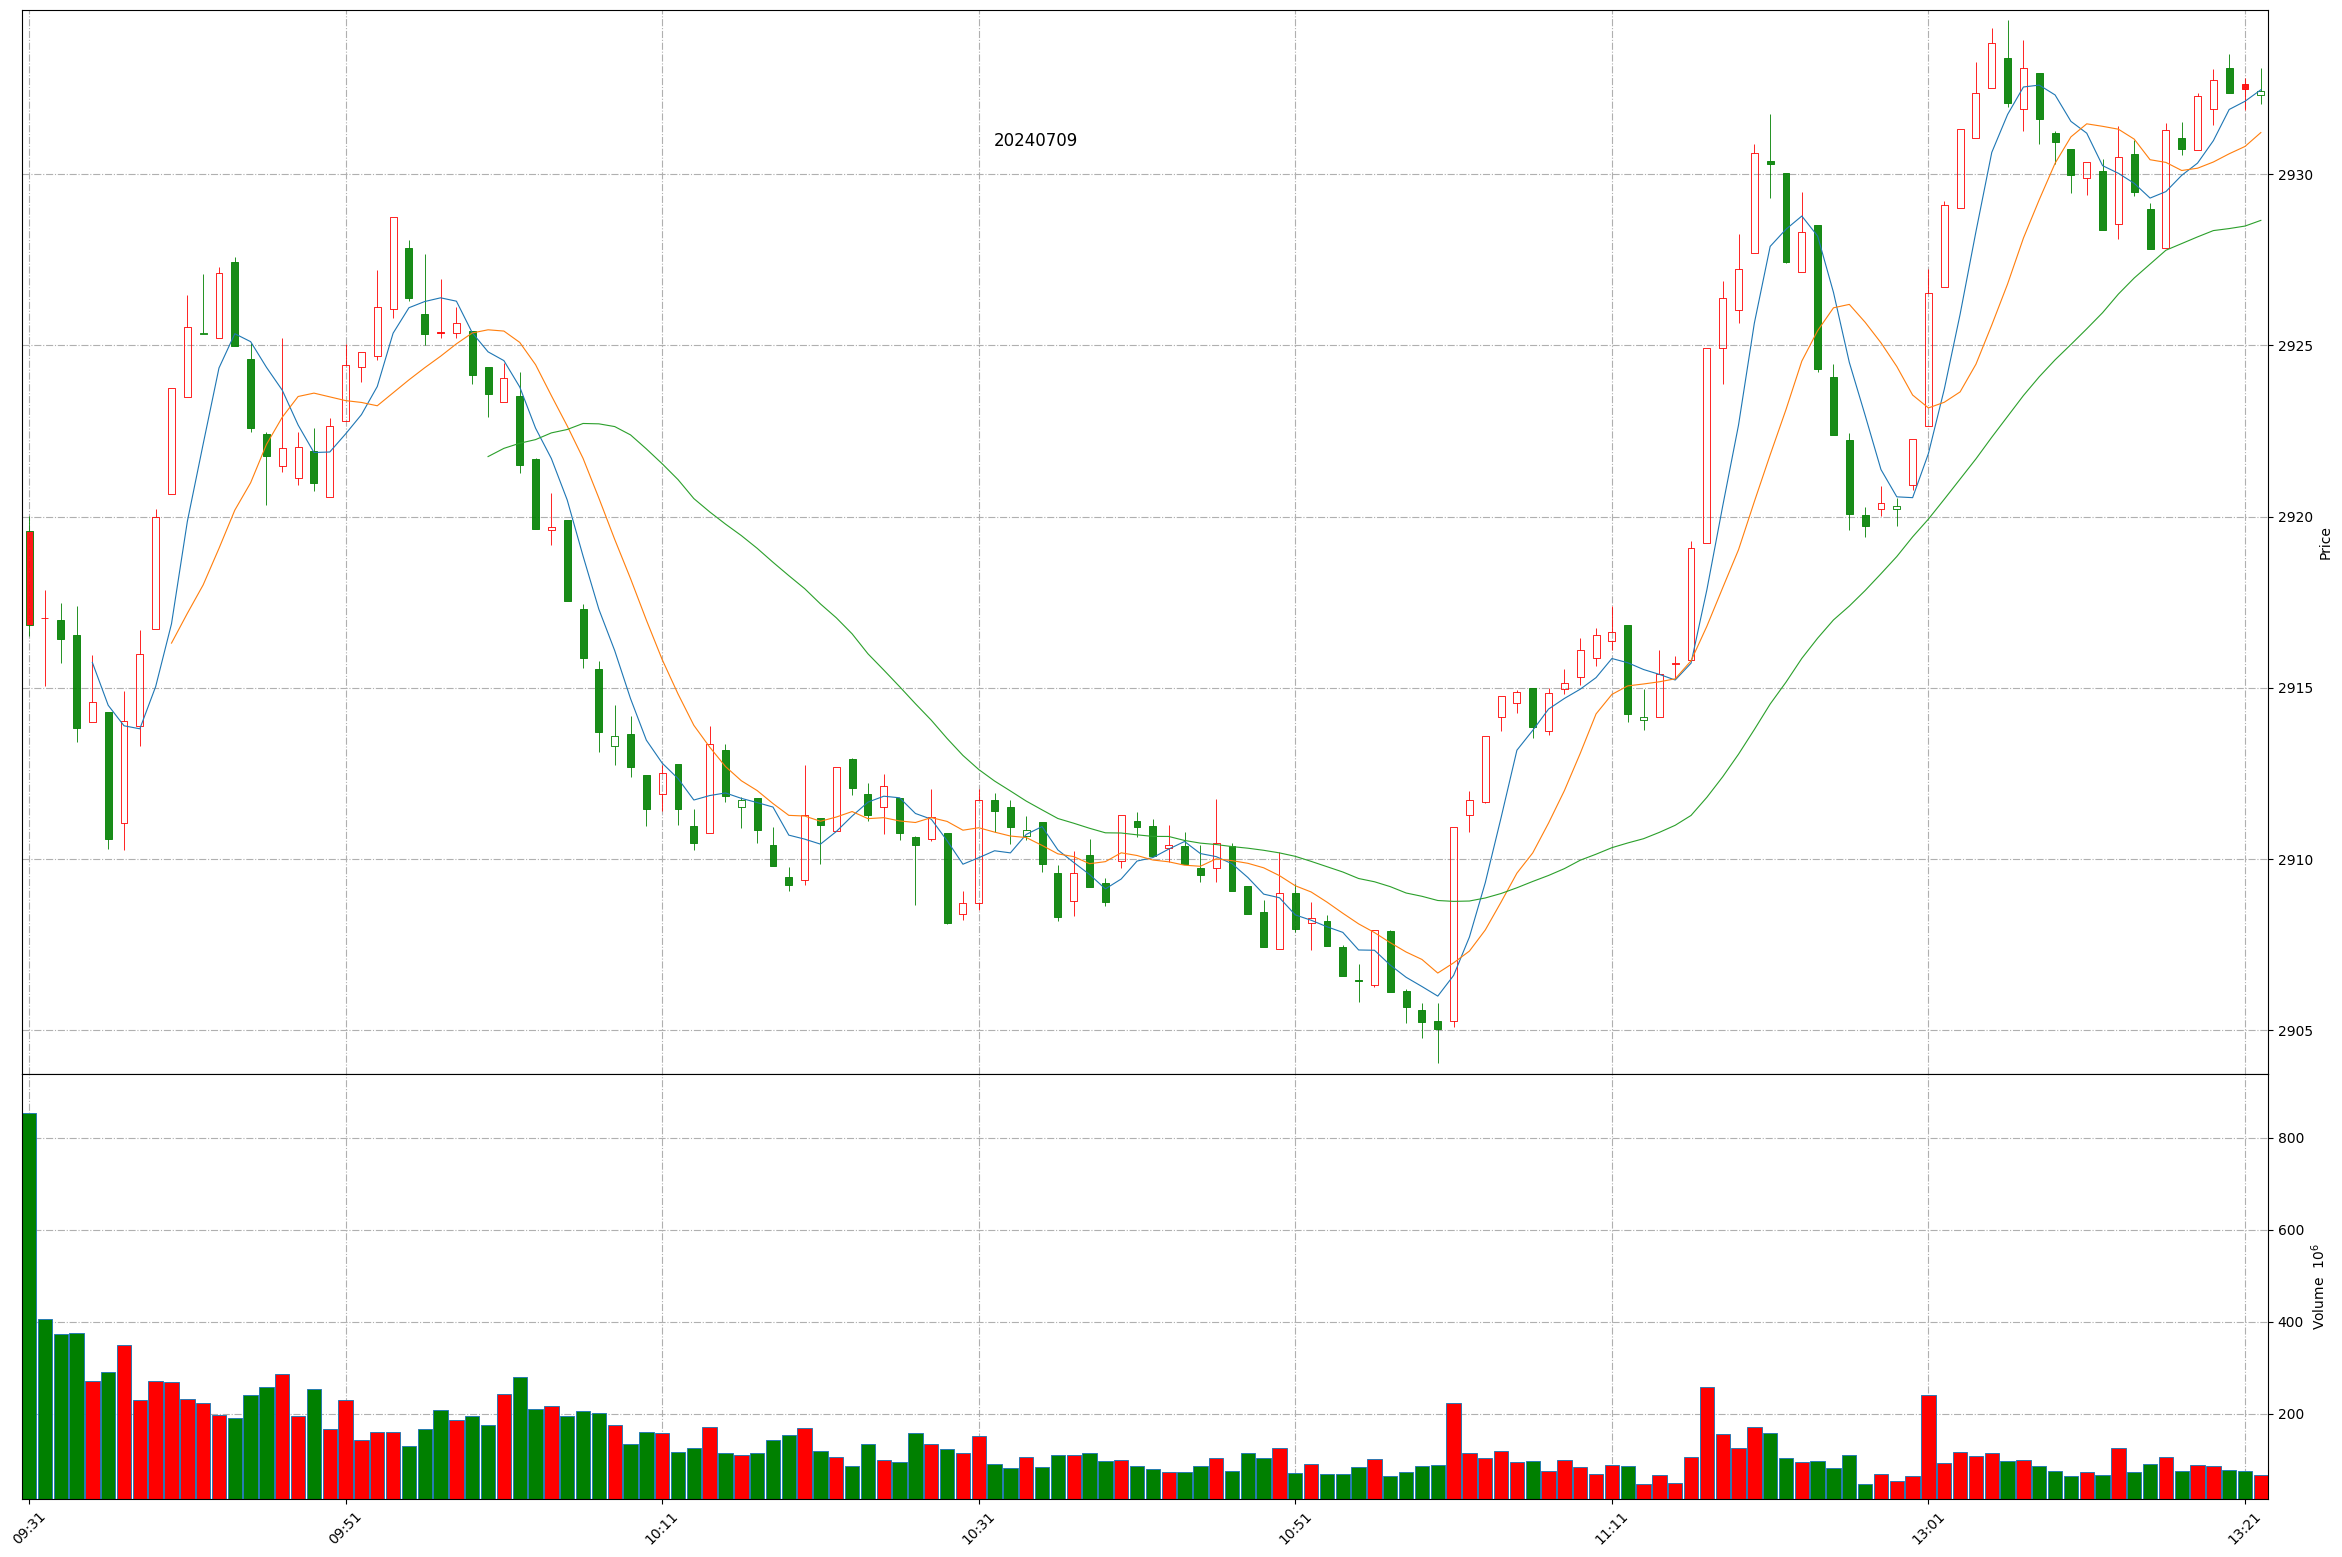
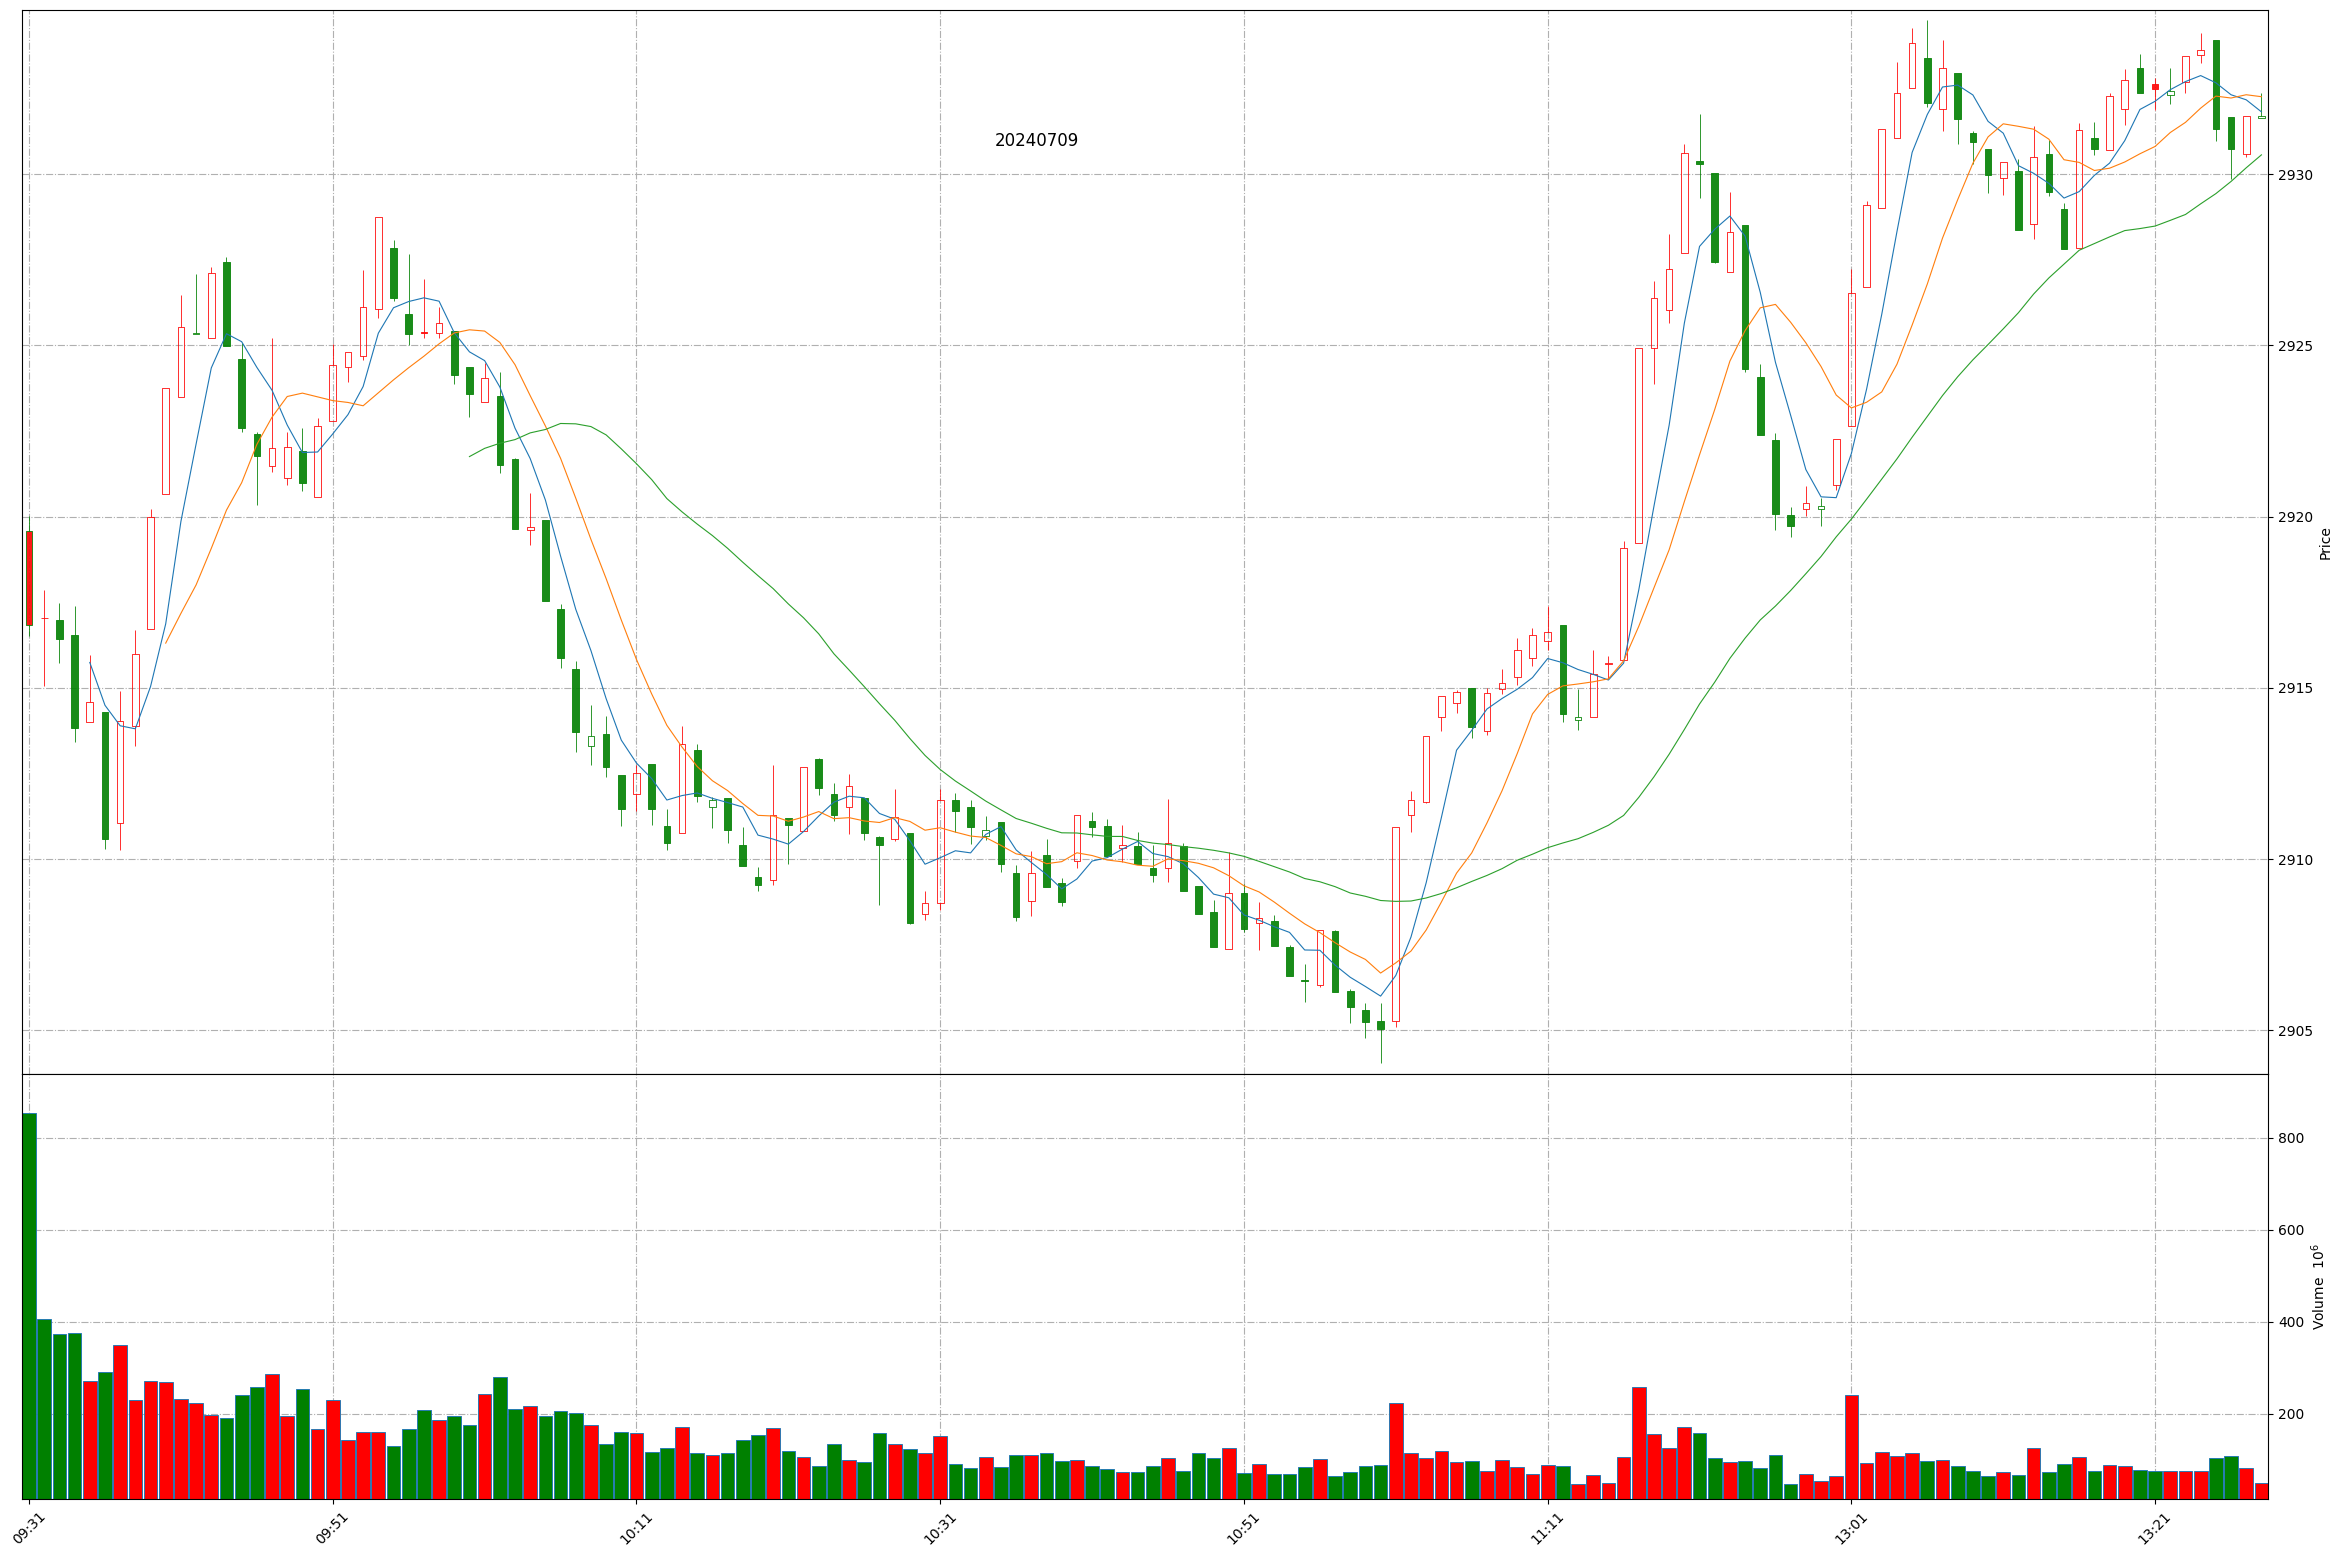
Github action update at 2024-07-09 13:27:45.

diff --git a/README.md b/README.md
@@ -1,11 +1,11 @@
 
 # Daily-A-share-market-quotes 每日 A 股指数（5min 更新）- 20240709
 
-### 上证指数 20240709 13:22
+### 上证指数 20240709 13:27
 ![](./fig/2024/7/20240709-sh000001.png)
 
-### 深证成指 20240709 13:22
+### 深证成指 20240709 13:27
 ![](./fig/2024/7/20240709-sz399001.png)
 
-### 北证50 20240709 13:22
+### 北证50 20240709 13:27
 ![](./fig/2024/7/20240709-bj899050.png)
